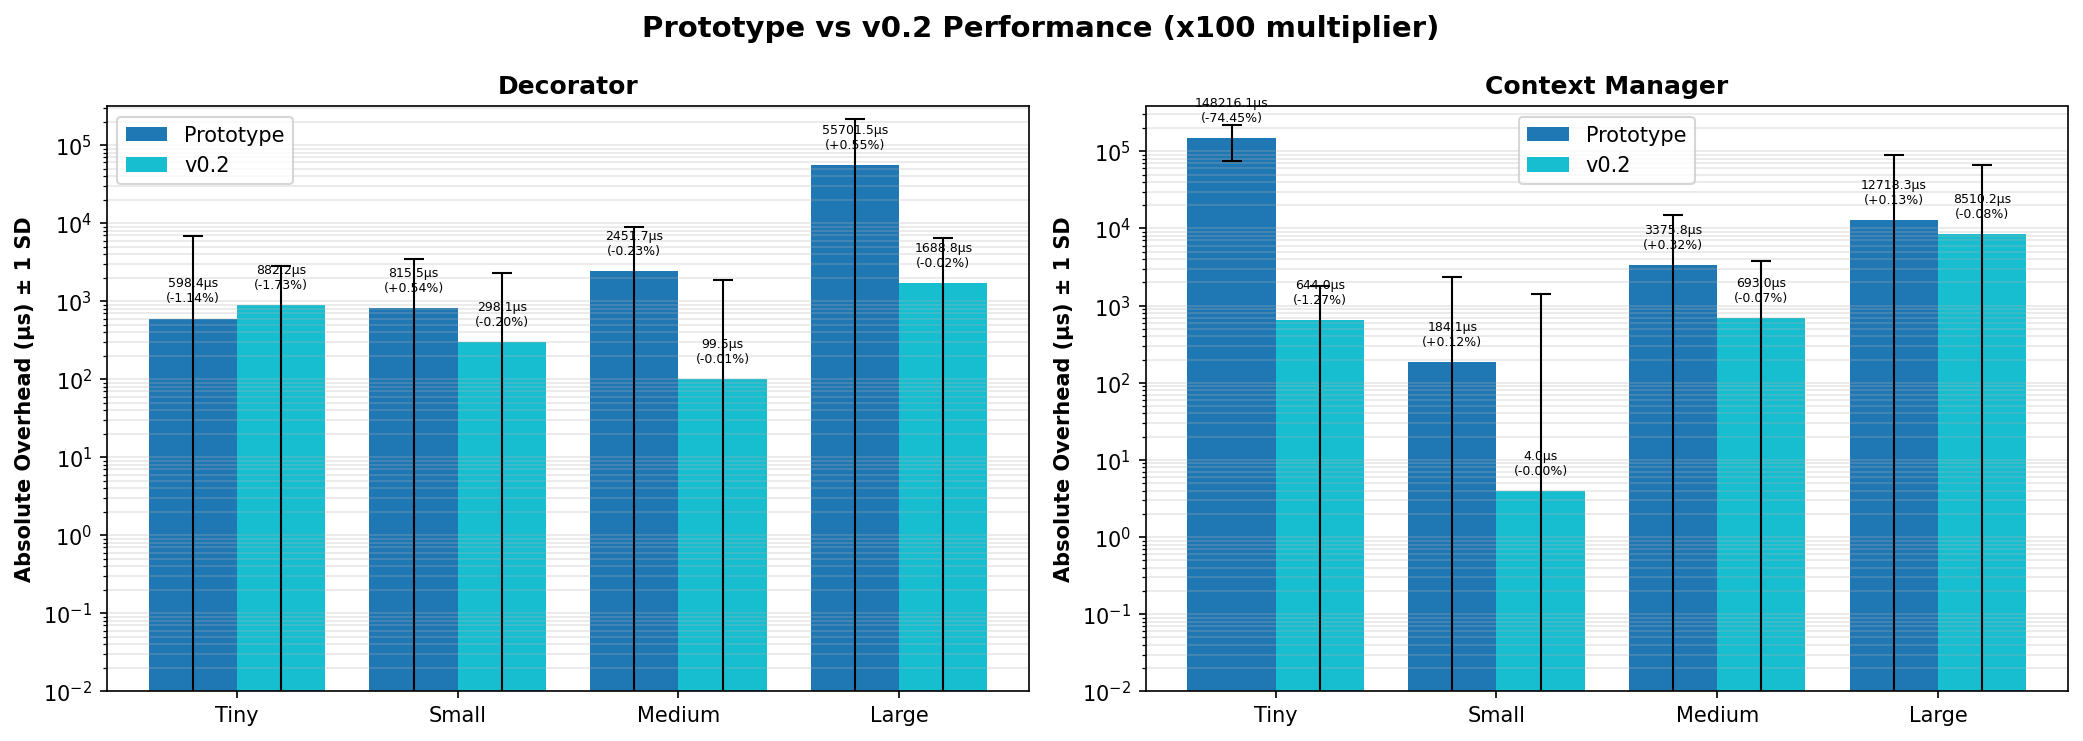
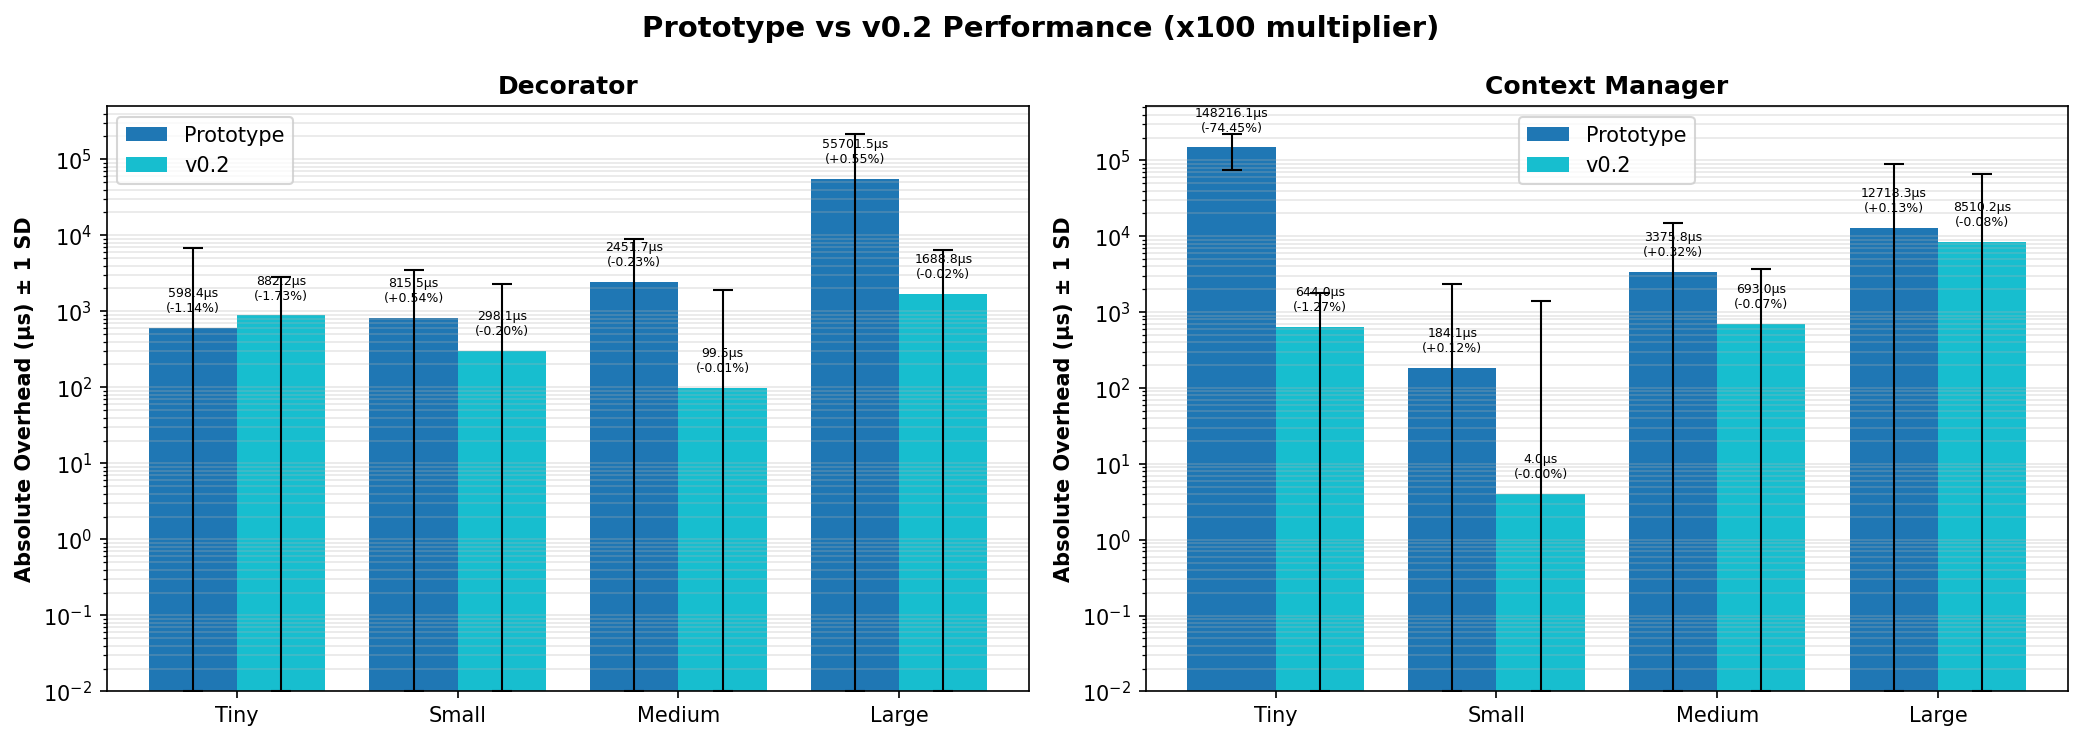
fix(perf): correct error bar visualization for logarithmic scale
Problem:
- Error bars on log scale appeared asymmetric and not centered on bar tops
- Symmetric error bars in linear space (±σ) appear asymmetric in log space
- Visual distance from mean to (mean+σ) ≠ distance from mean to (mean-σ) on log scale

Solution:
- Calculate asymmetric error bars for log scale visualization
- Lower error: mean - max(0.01, mean - σ) (prevents going below log scale minimum)
- Upper error: σ (standard symmetric upper bound)
- Use matplotlib's 2xN array format: yerr = [[lower_errors], [upper_errors]]

Result:
- Error bars now visually centered and symmetric on bar tops
- Statistical correctness maintained (±1 SD from mean)
- Proper handling of log scale constraints (minimum value 0.01 µs)

Technical details:
- On log scale: log(mean+σ) - log(mean) ≠ log(mean) - log(mean-σ)
- Asymmetric yerr compensates for this visual distortion
- Error bars represent true ±1 SD in data space while appearing symmetric in visual space

diff --git a/benchmarks/compare_baselines.py b/benchmarks/compare_baselines.py
@@ -200,7 +200,8 @@ def create_bar_chart(comparisons: List[Dict], datasets: List[Dataset], output_pa
         all_bars = []
         for ds_idx, ds in enumerate(datasets):
             values = []
-            errors = []
+            errors_lower = []
+            errors_upper = []
             pcts = []
 
             for scenario in scenarios:
@@ -210,21 +211,35 @@ def create_bar_chart(comparisons: List[Dict], datasets: List[Dataset], output_pa
                     c = matching[0]
                     stats = c['datasets'][ds.name]
                     # Use absolute overhead in microseconds
-                    values.append(abs(stats['overhead_us']))  # abs for log scale
-                    errors.append(stats['overhead_us_std'])
+                    mean_val = abs(stats['overhead_us'])  # abs for log scale
+                    std_val = stats['overhead_us_std']
+
+                    values.append(mean_val)
+
+                    # For log scale, calculate asymmetric error bars
+                    # Lower error: distance from mean to (mean - σ), but can't go below 0.01
+                    lower_bound = max(0.01, mean_val - std_val)
+                    errors_lower.append(mean_val - lower_bound)
+
+                    # Upper error: distance from mean to (mean + σ)
+                    errors_upper.append(std_val)
+
                     pcts.append(stats['overhead_pct'])
                 else:
                     values.append(0.01)  # Small value for log scale
-                    errors.append(0)
+                    errors_lower.append(0)
+                    errors_upper.append(0)
                     pcts.append(0)
 
             # Calculate bar positions (centered around x)
             offset = (ds_idx - (n_datasets - 1) / 2) * width
             positions = x + offset
 
-            # Create bars with error bars (±1 SD)
+            # Create bars with asymmetric error bars for log scale (±1 SD)
+            # yerr format: [[lower_errors], [upper_errors]]
+            yerr = np.array([errors_lower, errors_upper])
             bars = ax.bar(positions, values, width,
-                         yerr=errors, capsize=5,
+                         yerr=yerr, capsize=5,
                          label=ds.name, color=colors[ds_idx],
                          error_kw={'elinewidth': 1, 'capthick': 1})
             all_bars.append((bars, values, pcts))
